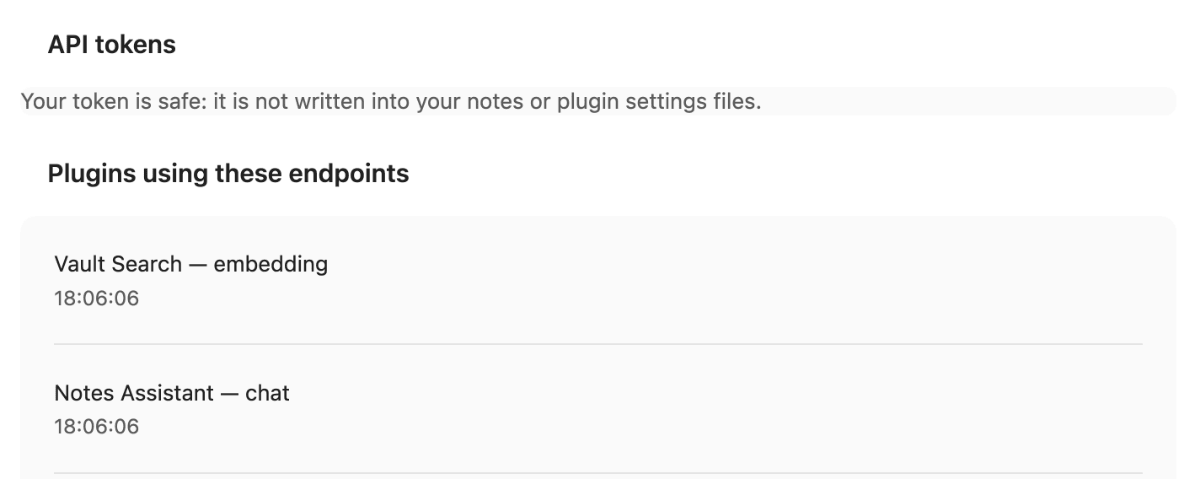
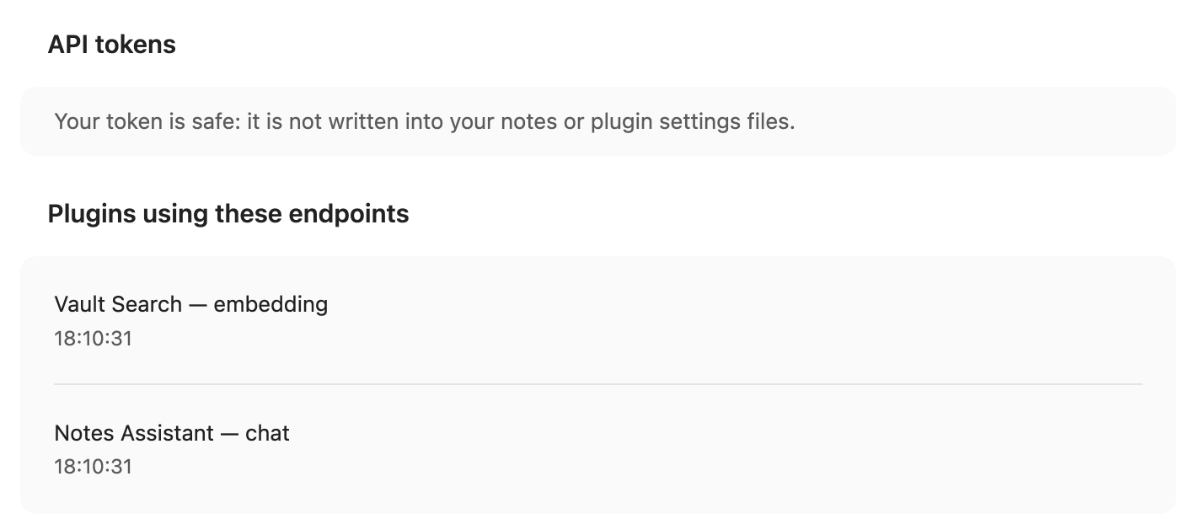
fix(settings): Schlüsselbund-Hinweis und Leer-Text mit Einzug der Zeilen darunter; consumers.png neu

diff --git a/styles.css b/styles.css
@@ -97,4 +97,4 @@
 }
 
 /* Schlüsselbund-Status und Konsumenten-Leerzustand: Typografie wie die Nachbartexte (Review-Fund 11). */
-.lem-keychain-status, .lem-consumers-empty { font-size: var(--font-ui-small); color: var(--text-muted); }
+.lem-keychain-status, .lem-consumers-empty { font-size: var(--font-ui-small); color: var(--text-muted); padding: var(--size-4-3) calc(var(--size-4-4) + var(--size-2-2)); }

diff --git a/CHANGELOG.md b/CHANGELOG.md
@@ -6,6 +6,9 @@ All notable changes to this project are documented here. The format follows
 
 ## [Unreleased]
 
+### Fixed
+- The keychain status text and the empty-consumers text in the settings tab now sit inside their group box with the same inset as the rows below (they were flush with the box edge).
+
 ### Documentation
 - README rewritten after the workspace standard (features, requirements, install, configuration, how it works), plus a German README.
 - User documentation under `docs/`: an index, a getting-started tutorial and a troubleshooting guide, linked from both READMEs.
